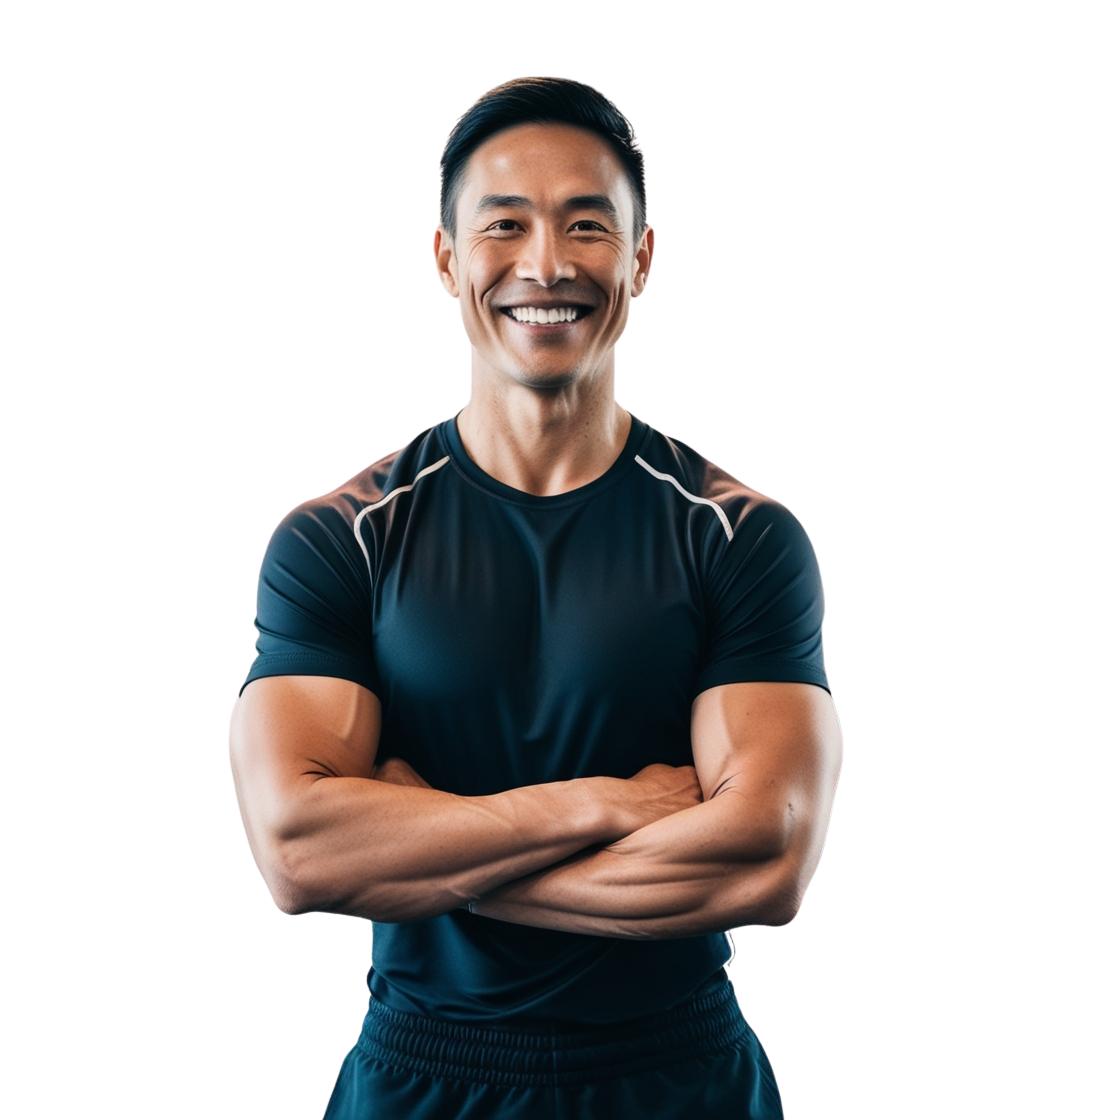
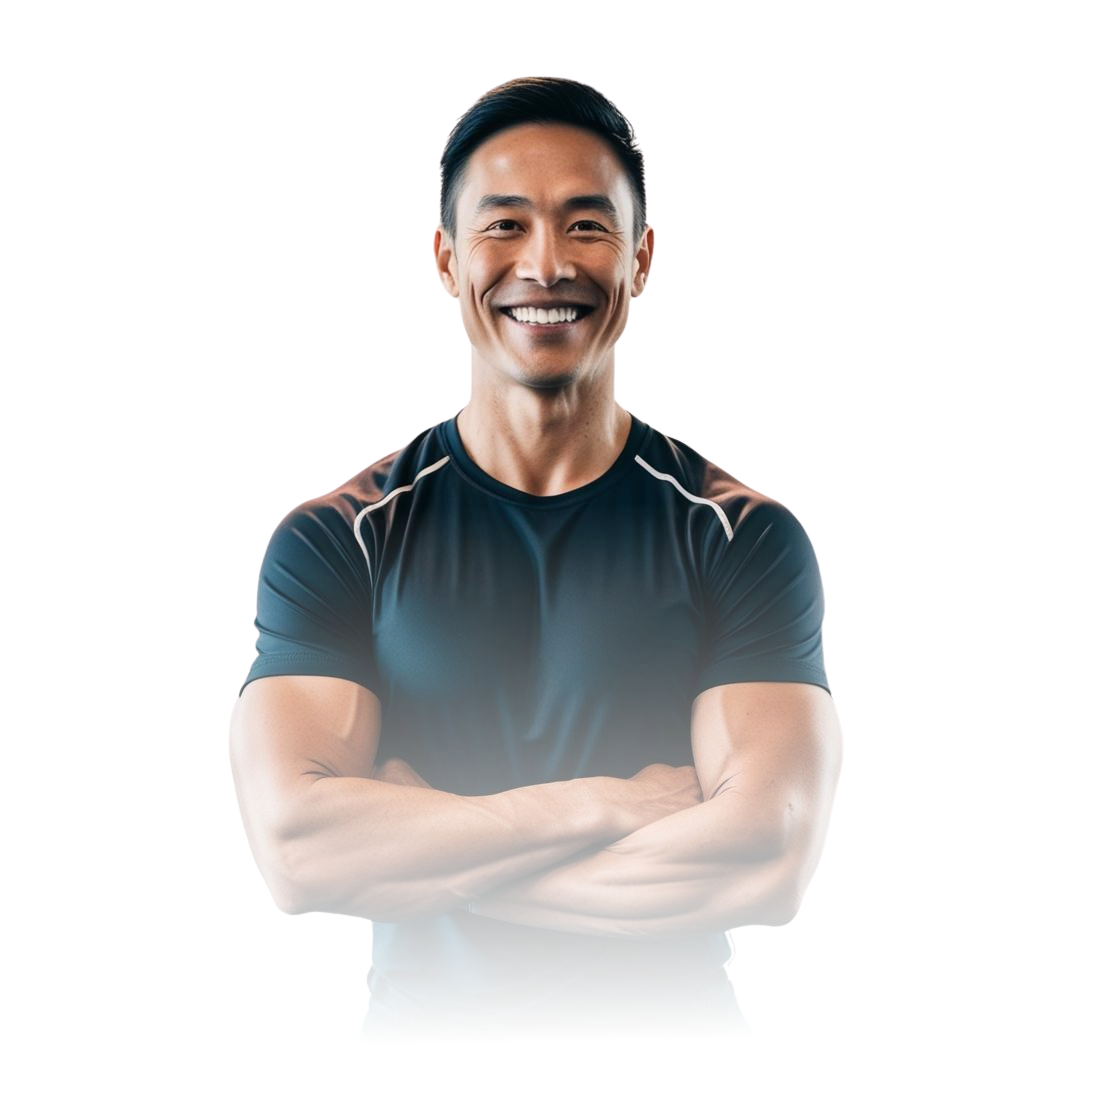
edit img hero

Changed region(s): [[0.1875, 0.4688, 0.75, 1.0]]

diff --git a/index.html b/index.html
@@ -4,7 +4,28 @@
     <meta charset="UTF-8" />
     <link rel="icon" type="image/svg+xml" href="/vite.svg" />
     <meta name="viewport" content="width=device-width, initial-scale=1.0" />
-    <title>Personal Template</title>
+    <title>Personal Trainer Template</title>
+    
+    <!-- SEO Meta Tags -->
+    <meta name="description" content="Personal Trainer Template - Your go-to solution for fitness and training services. Get fit with personalized training plans and expert guidance." />
+    <meta name="keywords" content="personal trainer, fitness, training, workout, health, gym, exercise" />
+    <meta name="author" content="Your Name" />
+    
+    <!-- Open Graph Meta Tags for Social Media -->
+    <meta property="og:title" content="Personal Trainer Template" />
+    <meta property="og:description" content="Your go-to solution for fitness and training services. Get fit with personalized training plans and expert guidance." />
+    <meta property="og:image" content="/path/to/your/image.jpg" />
+    <meta property="og:url" content="https://yourwebsite.com" />
+    <meta property="og:type" content="website" />
+    
+    <!-- Twitter Card Meta Tags -->
+    <meta name="twitter:card" content="summary_large_image" />
+    <meta name="twitter:title" content="Personal Trainer Template" />
+    <meta name="twitter:description" content="Your go-to solution for fitness and training services. Get fit with personalized training plans and expert guidance." />
+    <meta name="twitter:image" content="/path/to/your/image.jpg" />
+    
+    <!-- Canonical Link -->
+    <link rel="canonical" href="https://yourwebsite.com" />
   </head>
   <body>
     <div id="root"></div>
